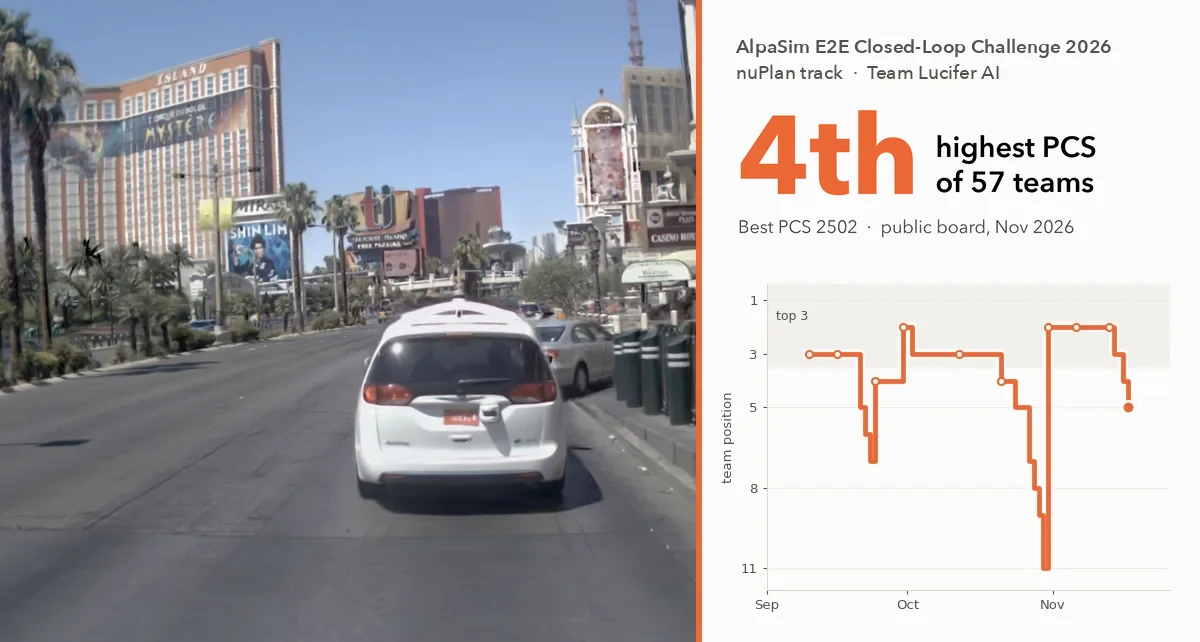
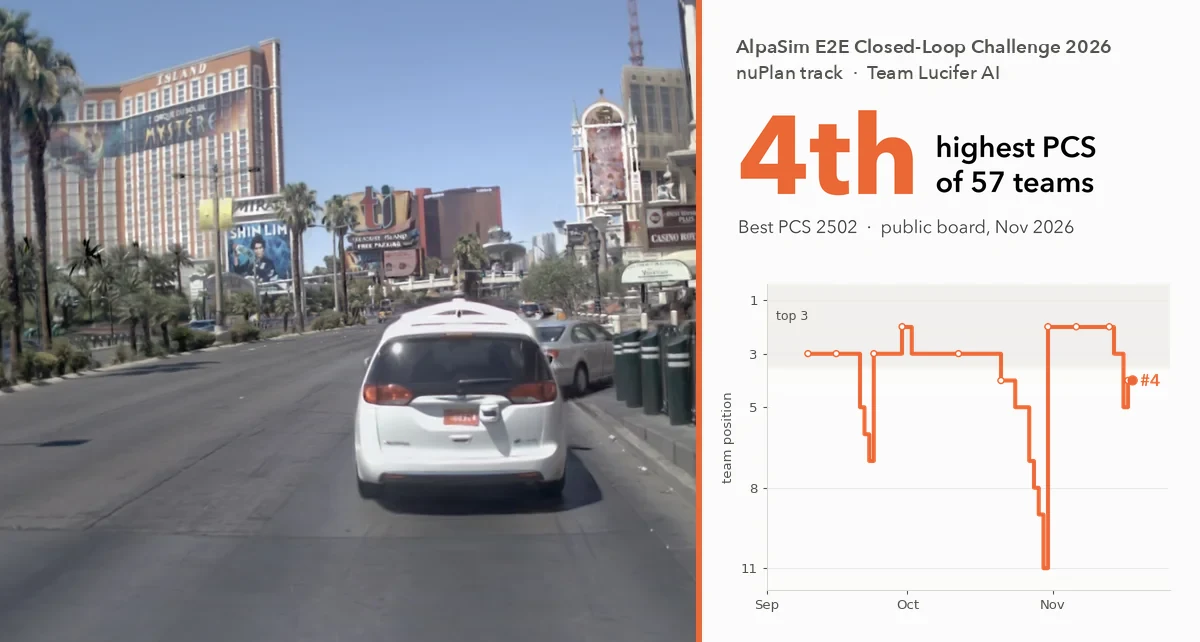
AlpaSim post: final-board PCS (4th-highest), PCS-ordered position chart; poster chart by PCS

diff --git a/index.html b/index.html
@@ -72,7 +72,7 @@
       <div class="project-card-body">
         <a href="{{ alpasim_post.url }}"><span class="papertitle">AlpaSim Challenge 2026: Closed-Loop Driving (Team Lucifer AI)</span></a>
         <br><a href="{{ alpasim_post.url }}">Blog post</a> &nbsp;|&nbsp; <a href="/assets/posts/alpasim-challenge/lucifer_ai_report.pdf">Technical report</a> &nbsp;|&nbsp; <a href="https://github.com/skr3178/alpasim-e2e-challenge-2026-lucifer-ai">GitHub</a> &nbsp;|&nbsp; <a href="https://huggingface.co/skr3178/alpasim-e2e-challenge-2026-lucifer-ai">HuggingFace</a> &nbsp;|&nbsp; <a href="https://huggingface.co/spaces/nvidia/AlpasimE2EClosedLoopChallenge2026">Challenge</a>
-        <p>Entry to the nuPlan track of the AlpaSim E2E Closed Loop Challenge 2026, where a driving policy sees rendered camera images, plans a path, and is scored by a simulator that drives it through 10 unreleased recordings. Built on the public Latent TransFuser checkpoint from py123d_garage, with changes at inference: the 40, 60 and 80 m route targets are placed along the route instead of at straight-line distances, which misplaced them on bends, and a safety veto adjusts the path only on bends where it would leave the road. Ten official entries took the board score from PCS 858 to 2502, the <b>4th-highest Policy Capability Score of the 57 participating teams</b> on the public leaderboard (Nov 2026). The main lesson: most gains on 1,472 local public scenes did not transfer to the hidden recordings.</p>
+        <p>Entry to the nuPlan track of the AlpaSim E2E Closed Loop Challenge 2026, where a driving policy sees rendered camera images, plans a path, and is scored by a simulator that drives it through 10 unreleased recordings. Built on the public Latent TransFuser checkpoint from py123d_garage, with changes at inference: the 40, 60 and 80 m route targets are placed along the route instead of at straight-line distances, which misplaced them on bends, and a safety veto adjusts the path only on bends where it would leave the road. Ten official entries took the board score from PCS 863 to 2502, the <b>4th-highest Policy Capability Score of the 57 participating teams</b> on the public leaderboard (Nov 2026). The main lesson: most gains on 1,472 local public scenes did not transfer to the hidden recordings.</p>
       </div>
     </div>
     {% endif %}

diff --git a/_posts/2026-11-17-alpasim-challenge.md b/_posts/2026-11-17-alpasim-challenge.md
@@ -6,45 +6,45 @@ date: 2026-11-17
 
 Team Lucifer AI entered the nuPlan track of the AlpaSim E2E Closed Loop Challenge 2026. Here a driving policy is scored by driving: it sees rendered camera images and plans a path, and a simulator follows that path on 10 recordings that were never released.
 
-Our last entry, lf-013, is our best by score: mean scene score 0.9494 and Policy Capability Score (PCS) 2482, with 1.36 km between at-fault incidents against 1.04 for our previous best, lf-009. On the board of 17 November (17:48 IST), our team placed 5th of 57. **Update, 18 November:** with every entry scored, lf-013's PCS is 2502, the 4th-highest Policy Capability Score of the 57 participating teams on the public leaderboard (the board's 63 accounts include six host accounts). The board's own rank column, which orders entries by the pessimistic end of each score's range, put us 9th in that snapshot; in a refit later that evening (20:11 IST, 291 entries) lf-013 had PCS 2528 and we were 4th in both orderings. Final standings use a private evaluation set and may differ.
+Our last entry, lf-013, is our best by score: mean scene score 0.9494 and Policy Capability Score (PCS) 2502 on the final public board (18 November, with every entry scored), with 1.36 km between at-fault incidents against 1.04 for our previous best, lf-009. That is the **4th-highest Policy Capability Score of the 57 participating teams** on the public leaderboard (the board's 63 accounts include six host accounts). The board's own rank column, which orders entries by the pessimistic end of each score's range, put us 9th in that snapshot; in a refit later that evening (20:11 IST, 291 entries) lf-013 had PCS 2528 and we were 4th in both orderings. Final standings use a private evaluation set and may differ.
 
 Both entries run the host's public Latent TransFuser checkpoint from py123d_garage, and our changes are at inference. lf-009 places the model's 40, 60 and 80 m route targets along the route itself, not at straight-line distances, which misplaced them on bends. lf-013 adds a safety veto that changes the path only on bends where the plan would leave the road.
 
 ## What we learned
 
-- **Start from the strongest public baseline.** Two months of other models and our own training peaked at PCS 1682. The host's improved checkpoint with our route fix reached 2469, and 2482 with the bend veto.
+- **Start from the strongest public baseline.** Two months of other models and our own training peaked at PCS 1680. The host's improved checkpoint with our route fix reached 2487, and 2502 with the bend veto.
 - **Most local gains did not transfer.** lf-010 and lf-012 each raised our mean on 1,472 public scenes by 0.015 to 0.017, yet both scored lower PCS than lf-009 on the hidden recordings. lf-013, the smallest change, was the only one that carried over.
 - **Mean score is not the leaderboard.** lf-012 beat lf-009 on mean score and on distance per incident, yet scored lower PCS. PCS models perfect, partial and failed scenes separately, so the mean alone does not predict it.
 - **The top of the board is noisy.** With no new entry from us, our team moved from 4th to 8th within an hour on 17 November, as other entries arrived and scores were refitted. Board order also uses the pessimistic end of each score's range, so lf-013 sits just below lf-009 despite its higher PCS.
 
 ## Our position over time
 
-Rebuilt with today's scores, our best entry held a top-3 place for most of October and the first two weeks of November. It slipped to 5th in the final days, as other teams' late entries arrived.
+Ordered by each team's best PCS and rebuilt with the final board's scores, our best entry held a top-3 place for most of October and the first two weeks of November. Other teams' late entries pushed it to 5th in the last days, and lf-013, our final entry, brought it back to 4th.
 
-![nuPlan track: team position over time, with Lucifer AI highlighted](/assets/posts/alpasim-challenge/nuplan-team-position.png)
+![nuPlan track: team position over time by best Policy Capability Score, with Lucifer AI highlighted](/assets/posts/alpasim-challenge/nuplan-team-position-pcs.png)
 
 ## Our entries
 
-Ten official entries took our board score from PCS 858 to 2482. The biggest jump came in late October, when the host released a stronger public checkpoint and we fixed how it reads its route.
+Ten official entries took our board score from PCS 863 to 2502. The biggest jump came in late October, when the host released a stronger public checkpoint and we fixed how it reads its route.
 
-| Date | Entry | What it was | Mean scene score | PCS on 17 Nov |
+| Date | Entry | What it was | Mean scene score | PCS on 18 Nov |
 | --- | --- | --- | --- | --- |
-| 10 Sep | wajepa-s2 | WA-JEPA world-action model, two flow steps | 0.7678 | 1148 |
-| 16 Sep | vavam-stock | Stock VaVAM-B video-action model | 0.5580 | 858 |
-| 24 Sep | untagged | Public Latent TransFuser checkpoint `model_0014` | 0.8519 | 1499 |
+| 10 Sep | wajepa-s2 | WA-JEPA world-action model, two flow steps | 0.7678 | 1149 |
+| 16 Sep | vavam-stock | Stock VaVAM-B video-action model | 0.5580 | 863 |
+| 24 Sep | untagged | Public Latent TransFuser checkpoint `model_0014` | 0.8519 | 1501 |
 | 30 Sep | lf-007 | `model_0014` with a route bridge and plan scale 1.25 | 0.8820 | 1568 |
-| 12 Oct | B1 | `model_0014` with a fine-tuned planning head | 0.8767 | 1606 |
-| 21 Oct | lf-008 | Full-model training on about 622,000 samples, exact route targets | 0.8931 | 1682 |
-| 30 Oct | lf-009 | Host's v0.2.0 waypoint checkpoint (seed 1), exact-arc route targets | 0.9454 | 2469 |
-| 6 Nov | lf-010 | SimScale decoder fine-tune, sampling fallback, lead rule | 0.9433 | 2362 |
-| 13 Nov | lf-012 | lf-009 weights, lead rule, bend veto at 5° | 0.9462 | 2403 |
-| 17 Nov | lf-013 | lf-009 weights, bend veto at 10° | 0.9494 | 2482 |
+| 12 Oct | B1 | `model_0014` with a fine-tuned planning head | 0.8767 | 1607 |
+| 21 Oct | lf-008 | Full-model training on about 622,000 samples, exact route targets | 0.8931 | 1680 |
+| 30 Oct | lf-009 | Host's v0.2.0 waypoint checkpoint (seed 1), exact-arc route targets | 0.9454 | 2487 |
+| 6 Nov | lf-010 | SimScale decoder fine-tune, sampling fallback, lead rule | 0.9433 | 2367 |
+| 13 Nov | lf-012 | lf-009 weights, lead rule, bend veto at 5° | 0.9462 | 2412 |
+| 17 Nov | lf-013 | lf-009 weights, bend veto at 10° | 0.9494 | 2502 |
 
-PCS values come from one leaderboard snapshot (17 Nov, 17:48 IST), because the score is refitted as entries arrive. For reference, the host's own entry with the same v0.2.0 checkpoint has mean 0.9437 and PCS 2437.
+PCS values come from one leaderboard snapshot (the final public board, 18 Nov, 18:56 IST), because the score is refitted as entries arrive. For reference, the host's own entry with the same v0.2.0 checkpoint has mean 0.9437 and PCS 2451.
 
 ## Technical report
 
-The full report, *Lucifer-LTF: Route-Aligned Inference and Conservative Adaptation for the AlpaSim Challenge*, covers the method, each entry and the experiment history. This version was updated on 18 November with lf-013 and the final public board, so its PCS values differ from the 17 November snapshot above, and reorganised on 19 November into standard paper sections (introduction, related work, method, results, limitations, conclusion) with the same numbers. The challenge received an earlier version on 13 November, before lf-013.
+The full report, *Lucifer-LTF: Route-Aligned Inference and Conservative Adaptation for the AlpaSim Challenge*, covers the method, each entry and the experiment history. This version was updated on 18 November with lf-013 and the final public board, and reorganised on 19 November into standard paper sections (introduction, related work, method, results, limitations, conclusion) with the same numbers. The challenge received an earlier version on 13 November, before lf-013.
 
 <div class="pdf-embed">
   <object data="/assets/posts/alpasim-challenge/lucifer_ai_report.pdf#view=FitH" type="application/pdf" aria-label="Lucifer AI technical report (PDF)">
